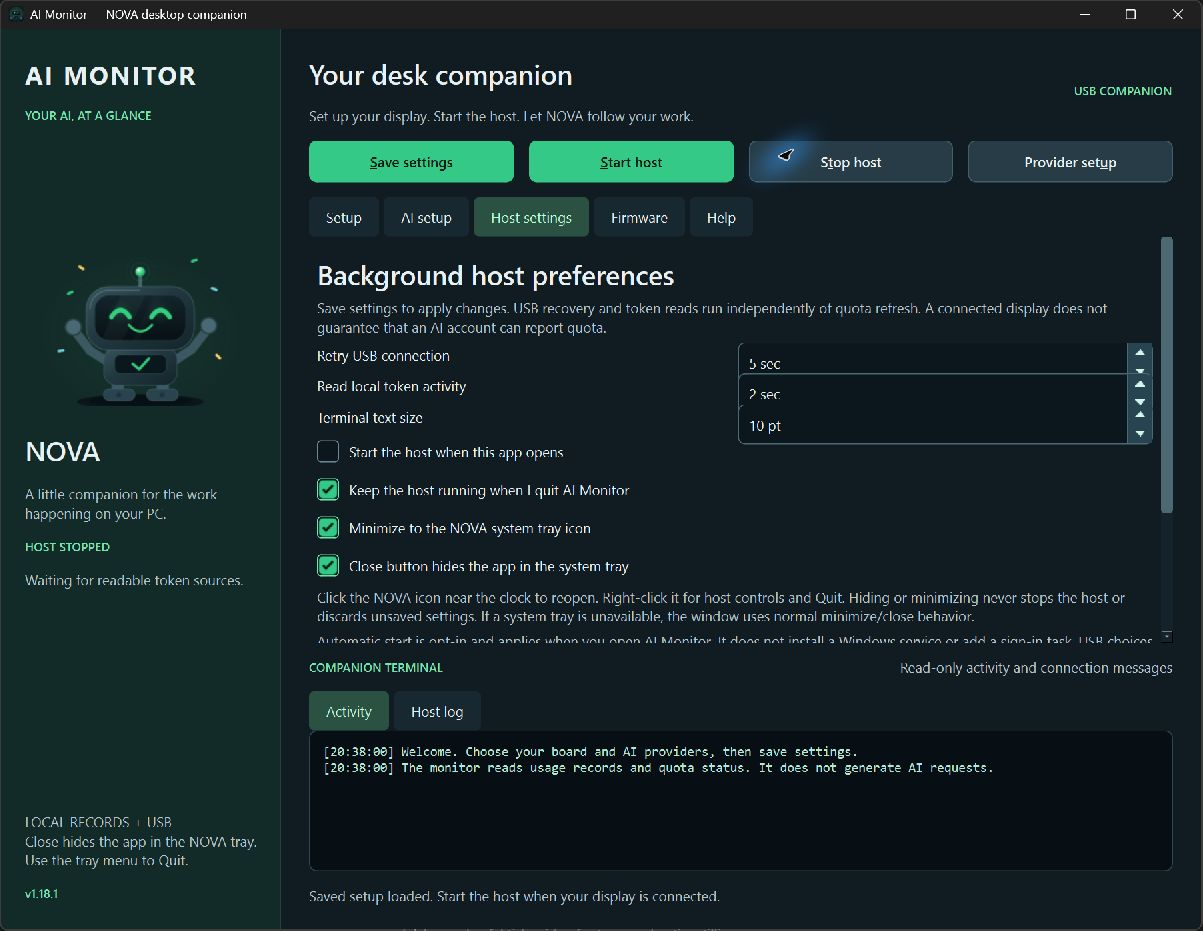
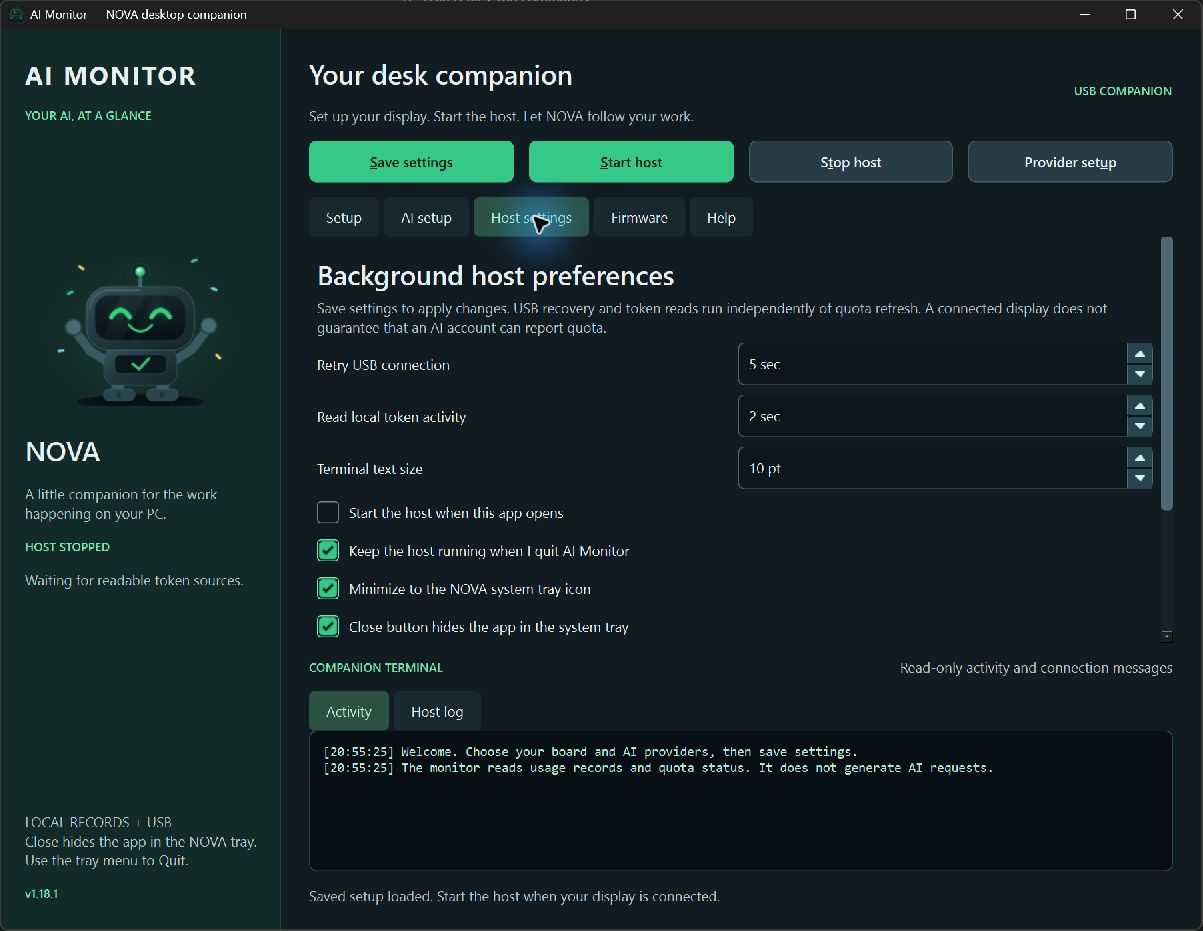
fix: keep tray preferences readable at smaller heights

diff --git a/tools/desktop_window.py b/tools/desktop_window.py
@@ -439,7 +439,6 @@ class MonitorWindow(QMainWindow):
                              'save settings, then install display firmware if needed and start the host.', 'muted', True))
         form.addWidget(label('SETUP PROGRESS', 'eyebrow'))
         self.setup_progress = label('', 'muted', True)
-        self.setup_progress.setAccessibleName('Setup progress')
         form.addWidget(self.setup_progress)
         self.setup_next = self._button('Continue setup', self.continue_setup, primary=True)
         form.addWidget(self.setup_next)
@@ -570,8 +569,11 @@ class MonitorWindow(QMainWindow):
         self.log_size = QSpinBox(); self.log_size.setRange(10, 18); self.log_size.setSuffix(' pt')
         self.log_size.setAccessibleName('Terminal font size')
         grid = QGridLayout()
+        grid.setVerticalSpacing(8)
         for row, (caption, field) in enumerate((('Retry USB connection', self.reconnect),
                 ('Read local token activity', self.token_poll), ('Terminal text size', self.log_size))):
+            field.setMinimumHeight(44)
+            grid.setRowMinimumHeight(row, 44)
             text = label(caption); text.setBuddy(field)
             grid.addWidget(text, row, 0); grid.addWidget(field, row, 1)
             field.valueChanged.connect(self._changed)

diff --git a/README.md b/README.md
@@ -110,6 +110,8 @@ Open **AI-Monitor.exe** for a native window with NOVA artwork, a NOVA program ic
 
 **Guided setup:** the progress checklist and Next button lead through display, USB port, AI choices, saving and connection checks. Start stays disabled while those selections are incomplete or unsaved. A new/factory board gets firmware help; nothing is flashed automatically. Reopening with automatic host start enabled reuses an existing host.
 
+[Preview guided setup](docs/media/desktop-guided-setup.png) · [Desktop performance measurements](docs/DESKTOP_PERFORMANCE.md).
+
 ## Get running on Windows
 
 1. **Download and install.** Open [Releases](https://github.com/catorendal-a11y/ai-monitor-p4-s3/releases/latest) and run **AI-Monitor-Setup-v1.18.1-windows.exe**. It installs the complete app for your user and opens setup; no Python or administrator rights are required. Alternatively, extract the complete **ai-monitor-p4-v1.18.1-windows.zip** into a writable folder and keep its contents together.
